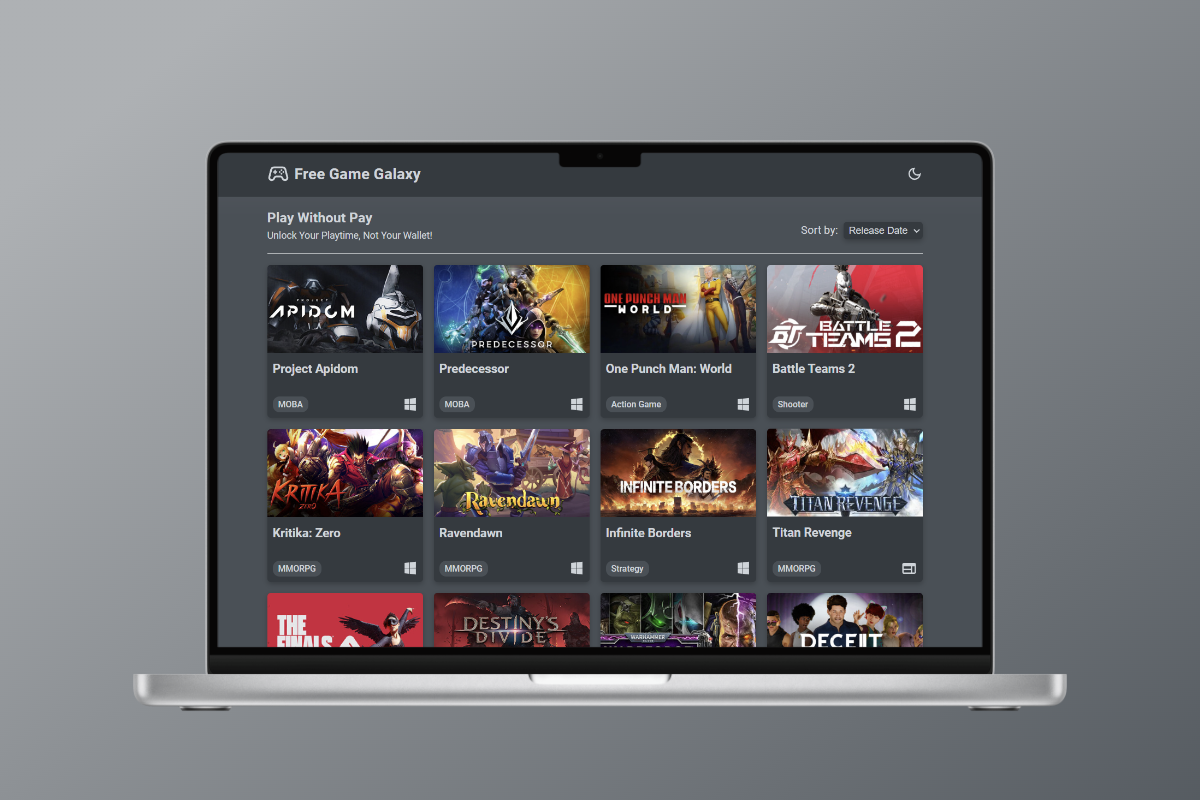
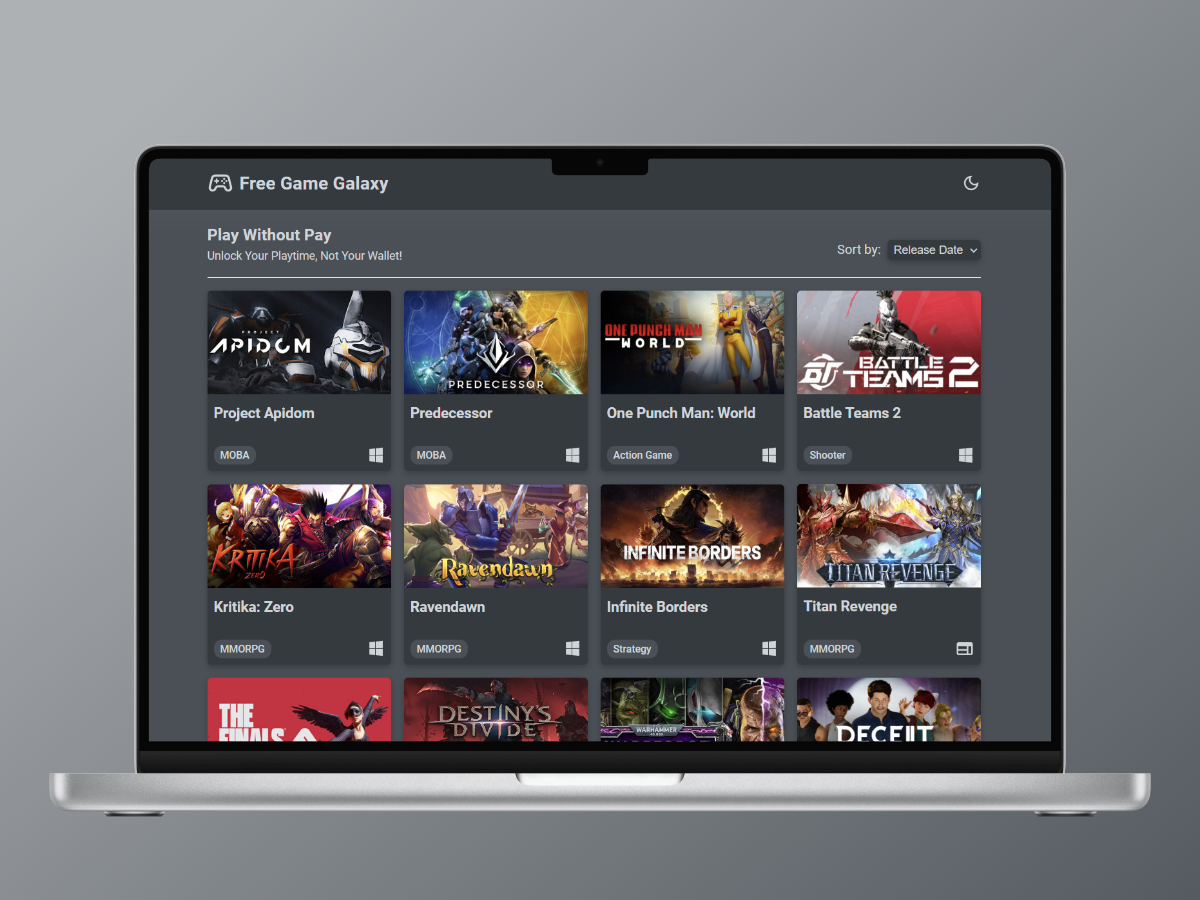
fix: game galaxy image size

diff --git a/src/data/ProjectsData.tsx b/src/data/ProjectsData.tsx
@@ -53,7 +53,7 @@ export const ProjectsData: Project[] = [
         src: 'FreeGameGalaxy.png',
         alt: 'Free Game Galaxy',
         width: 1200,
-        height: 800,
+        height: 900,
       },
     ],
   },
